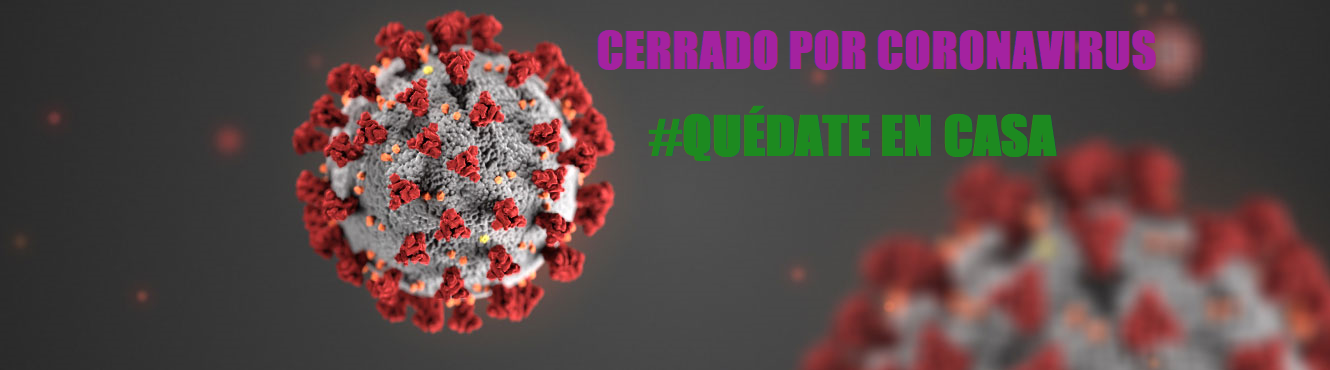
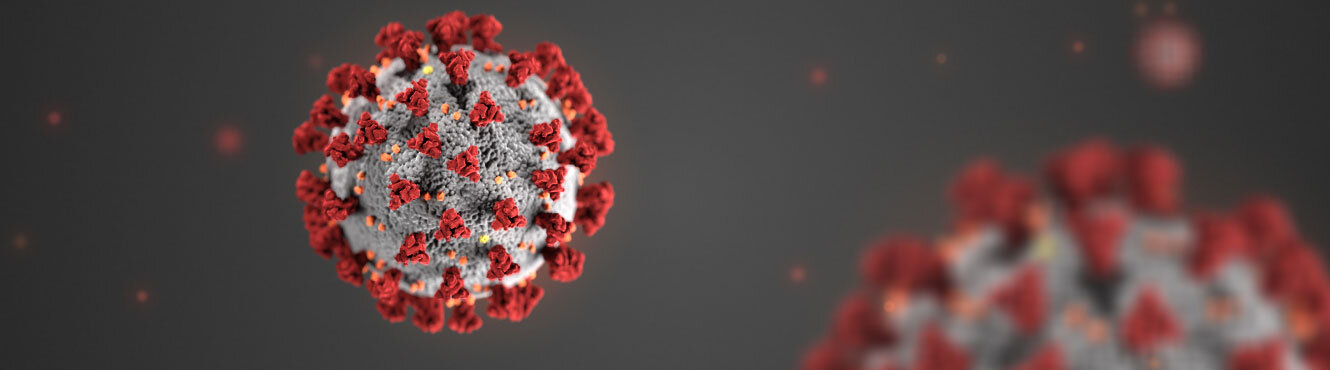
footer

Changed region(s): [[0.4316, 0.0595, 0.894, 0.2081], [0.4624, 0.2973, 0.8015, 0.4459]]

diff --git a/public/css/index.css b/public/css/index.css
@@ -305,4 +305,52 @@ FIN DE CARD FLIP
     margin-top: 1px !important;
     padding-bottom: 1px !important;
 }
+.caption {
+    position: absolute;
+    top: 10%;
+    left: 50%;
+}
 
+@media (max-width: 544px) {
+    .slider-text {font-size: 16px !important;}
+}
+/* Small devices (landscape phones, 544px and up) */
+@media (min-width: 544px) {
+    .slider-text {font-size: 16px !important;}
+}
+
+/* Medium devices (tablets, 768px and up) */
+@media (min-width: 768px) {
+    .slider-text {font-size: 30px !important;}
+}
+
+/* Large devices (desktops, 992px and up) */
+@media (min-width: 992px) {
+    .slider-text {
+        font-size: 32px !important;
+    }
+}
+    /* Extra large devices (large desktops, 1200px and up) */
+    @media (min-width: 1200px) {
+        .slider-text {
+            font-size: 48px !important;
+        }
+    }
+footer a {
+    color: rgb(215, 215, 215);
+}
+footer a:hover {
+    color: #9e9e9e;
+}
+footer figcaption {
+    color: #9e9e9e !important;
+}
+footer hr {
+    background-color: rgb(215, 215, 215);
+}
+.h2 {
+    color: #1d8a20 !important;
+}
+footer span {
+    color: rgb(215, 215, 215);
+}

diff --git a/resources/views/main/index.blade.php b/resources/views/main/index.blade.php
@@ -11,9 +11,17 @@
                 <div class="carousel-inner p-0 h-100">
                     <div class="carousel-item active  p-0 h-100">
                         <img class="w-100" src="img/coronavirus.png" alt="First slide">
+                        <div class="caption">
+                            <h1 class="slider-text text-secundary">CERRADO POR CORONAVIRUS</h1>
+                            <h1 class="slider-text mt-5 ml-4">#QUÉDATEENCASA</h1>
+                        </div>
                     </div>
                     <div class="carousel-item p-0">
-                        <a href="w-100"><img class="d-block w-100" src="img/coronavirus.png" alt="Second slide"></a>
+                        <a class="w-100"><img class="d-block w-100" src="img/coronavirus.png" alt="Second slide"></a>
+                        <div class="caption">
+                            <h1 class="slider-text text-secundary">CERRADO POR CORONAVIRUS</h1>
+                            <h1 class="slider-text mt-5 ml-4">#QUÉDATEENCASA</h1>
+                        </div>
                     </div>
                 </div>
                 <a class="carousel-control-prev" href="#carouselExampleIndicators" role="button" data-slide="prev">
@@ -28,9 +36,8 @@
 
         </div>
     </section>
-    <hr>
-    <section class="row">
-        <div class="col text-center">
+    <section class="row mt-5">
+        <div class="col mt-5 text-center">
             <h3 class="font-weight-bold text-dark">ACTIVIDADES</h3>
             <h1>EMPIEZA A CONSEGUIR TUS OBJETIVOS</h1>
             <div class="row text-center">
@@ -91,15 +98,14 @@
             </div>
         </div>
     </section>
-    <hr>
-    <section class="row">
-        <div class="col-sm-7 text-justify  text-secondary border-right">
+    <section class="row mt-5 mb-5">
+        <div class="col-sm-7 mt-5 text-justify text-secondary">
             <h3 aria-hidden="true" class="font-weight-bold text-dark">SÍGUENOS EN NUESTRAS</h3>
             <h1>REDES SOCIALES</h1>
             <p class="text-dark">¿Quieres ser el primero en conocer todas las novedades, participar en nuestras actividades y disfrutar de las mejores ofertas?  ¡Pues dale a seguir y forma parte de la comunidad del PDM!</p>
         </div>
         <div class="col-sm-5 mt-5 text-center">
-            <div class="row">
+            <div class="row mt-5">
                 <div class="col-lg-4 border-right">
                     <h2>Facebook</h2>
                     <a href="https://www.facebook.com" target="_blank"><i class="fab fa-facebook-square fa-4x"></i></a><br>
@@ -115,5 +121,4 @@
             </div>
         </div>
     </section>
-    <hr>
 @endsection

diff --git a/resources/views/partials/footer.blade.php b/resources/views/partials/footer.blade.php
@@ -1,12 +1,47 @@
 <!-- Footer -->
-<footer class="page-footer bg-primary pt-4 d-flex justify-content-center">
+<footer class="page-footer bg-primary h-100 mt-5 pt-4">
     <!-- Footer Elements -->
-    <div class="row">
-        <div class="col-sm-6  text-center">
-            <img class="img-fluid m-auto" src="{{url('img/Logo.PNG')}}">
+    <div class="row my-4 w-100">
+        <div class="col-sm-4 text-center mb-3">
+            <h1 class="h2">Legal</h1>
+            <ul class="list-unstyled">
+                <li><a class="ml-3" href="">Política de privacidad</a></li>
+                <li><a class="" href="">Política de cookies</a></li>
+            </ul>
         </div>
-        <div class="col-sm-6 text-center mt-5">
-            <p class="text-muted" style="font-size: 10px">PDM © Todos los derechos reservados</p>
+        <div class="col-sm-4 text-center mb-3">
+            <img class="figure-img img-fluid m-auto" src="{{url('img/Logo.PNG')}}">
+            <figcaption class="figure-caption">PDM © Todos los derechos reservados.</figcaption>
+        </div>
+        <div class="col-sm-4 text-center mb-3">
+            <h1 class="h2">PDM</h1>
+            <ul class="list-unstyled">
+                <li><a href="">Noticias</a></li>
+                <li><a href="">Abónate</a></li>
+                <li><a href="">Reservas</a></li>
+            </ul>
+        </div>
+    </div>
+    <hr>
+    <div class="row mt-5 pl-5 pb-5 w-100">
+        <div class="col-sm-4"></div>
+        <div class="col-sm-8">
+            <div class="row mb-4">
+                <div class="col-sm-2">
+                    <h1 class="h2">Contacto</h1>
+                </div>
+                <div class="col-sm-10 text-left mt-2">
+                    <span><i class="fas fa-mobile-alt mr-2"></i>(+34) 645 189 321</span>
+                </div>
+            </div>
+            <div class="row">
+                <div class="col-sm-2">
+                    <h1 class="h2">Horario</h1>
+                </div>
+                <div class="col-sm-10 text-left mt-2">
+                    <span><i class="fas fa-clock mr-2"></i>De Lunes a Domingo de 09:00h a 18:30h</span>
+                </div>
+            </div>
         </div>
     </div>
 </footer>
